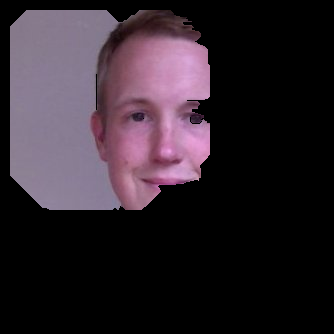
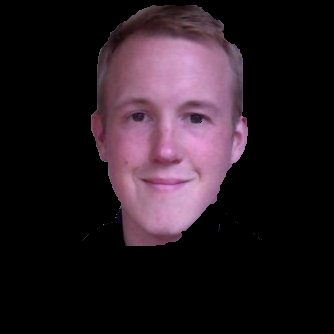
added: send image and coords to server. Call grabcut

Changed region(s): [[0.0299, 0.0, 0.7485, 0.7485]]

diff --git a/public/js/PictureYourself.js b/public/js/PictureYourself.js
@@ -1,6 +1,19 @@
-var UploadController = function ($scope, fileReader) {
+app.factory('Upload', function($resource,$http){
+	return {
+		image: function(data){
+			return $resource('/fileupload',{},{post:{method:'POST', params:{data:data}}}).post();
+			//$http.post('/fileupload',{data:data});
+		}
+	}
+})
+
+var UploadController = function ($scope, fileReader, Upload, $http, $timeout) {
      console.log(fileReader)
     $scope.getFile = function () {
+		var x = 0;
+		var y = 0;
+		var width = 0;
+		var height = 0;
         $scope.progress = 0;
         fileReader.readAsDataUrl($scope.file, $scope)
                       .then(function(result) {
@@ -57,6 +70,8 @@ var UploadController = function ($scope, fileReader) {
 						down = true;
 						selection.setX(stage.getMousePosition().x);
 						selection.setY(stage.getMousePosition().y);
+						x = selection.getX();
+						y = selection.getY();
 					})
 					
 					stage.on('mouseup', function(){
@@ -68,16 +83,36 @@ var UploadController = function ($scope, fileReader) {
 
 						selection.setWidth(stage.getMousePosition().x - selection.getX());
 						selection.setHeight(stage.getMousePosition().y - selection.getY());
+
+						width = selection.getWidth();
+						height = selection.getHeight();
 						layer.draw();
 					})
 
 					}); //end of then
- 
-					
+ 	
+	
+	$scope.upload = function(){
+		console.log($scope.file)
+		var data = new FormData();
+		var xhr = new XMLHttpRequest();
+		
+		data.append('file',$scope.file,$scope.file.name);
+		xhr.open('POST','/fileupload');
+		xhr.send(data);
+		$timeout(function(){
+			var xhr = new XMLHttpRequest();
+			xhr.open('POST', '/grabcut?filename=test.jpg&coords='+x+'+'+y+'+'+width+'+'+height)
+			xhr.send();
+			// $http.post('/grabcut', {filename:'test.jpg',coord:'10 10 100 200'});
+		},2000);
+		
+	}				
     $scope.$on("fileProgress", function(e, progress) {
         $scope.progress = progress.loaded / progress.total;
     });
- 
+
+
 }; //$scope.getFile
 } //UploadController
 
@@ -106,6 +141,5 @@ function LayoutCtrl($scope){
 }
 
 function IndexCtrl($scope){
-	
 	
 }

diff --git a/picture_yourself.rb b/picture_yourself.rb
@@ -1,4 +1,5 @@
 require 'sinatra'
+require 'base64'
 require 'data_mapper'
 require 'dm-timestamps'
 
@@ -19,9 +20,17 @@ get '/' do
   erb :index
 end
 
+get '/test' do
+  puts 'WORKED!'
+  return 
+end
+
 post '/fileupload' do
-    File.open('uploads/'+ params[:uploadedFile][:filename], 'w') do |f|
-        f.write(params[:uploadedFile][:tempfile].read)
+    File.open('uploads/'+ params[:file][:filename], 'w') do |f|
+        f.write(params[:file][:tempfile].read)
     end
-    return "The file was successfully uploaded!"
+end
+
+post '/grabcut' do
+  system('./test3 ' + params[:filename] + ' ' + params[:coords])
 end
